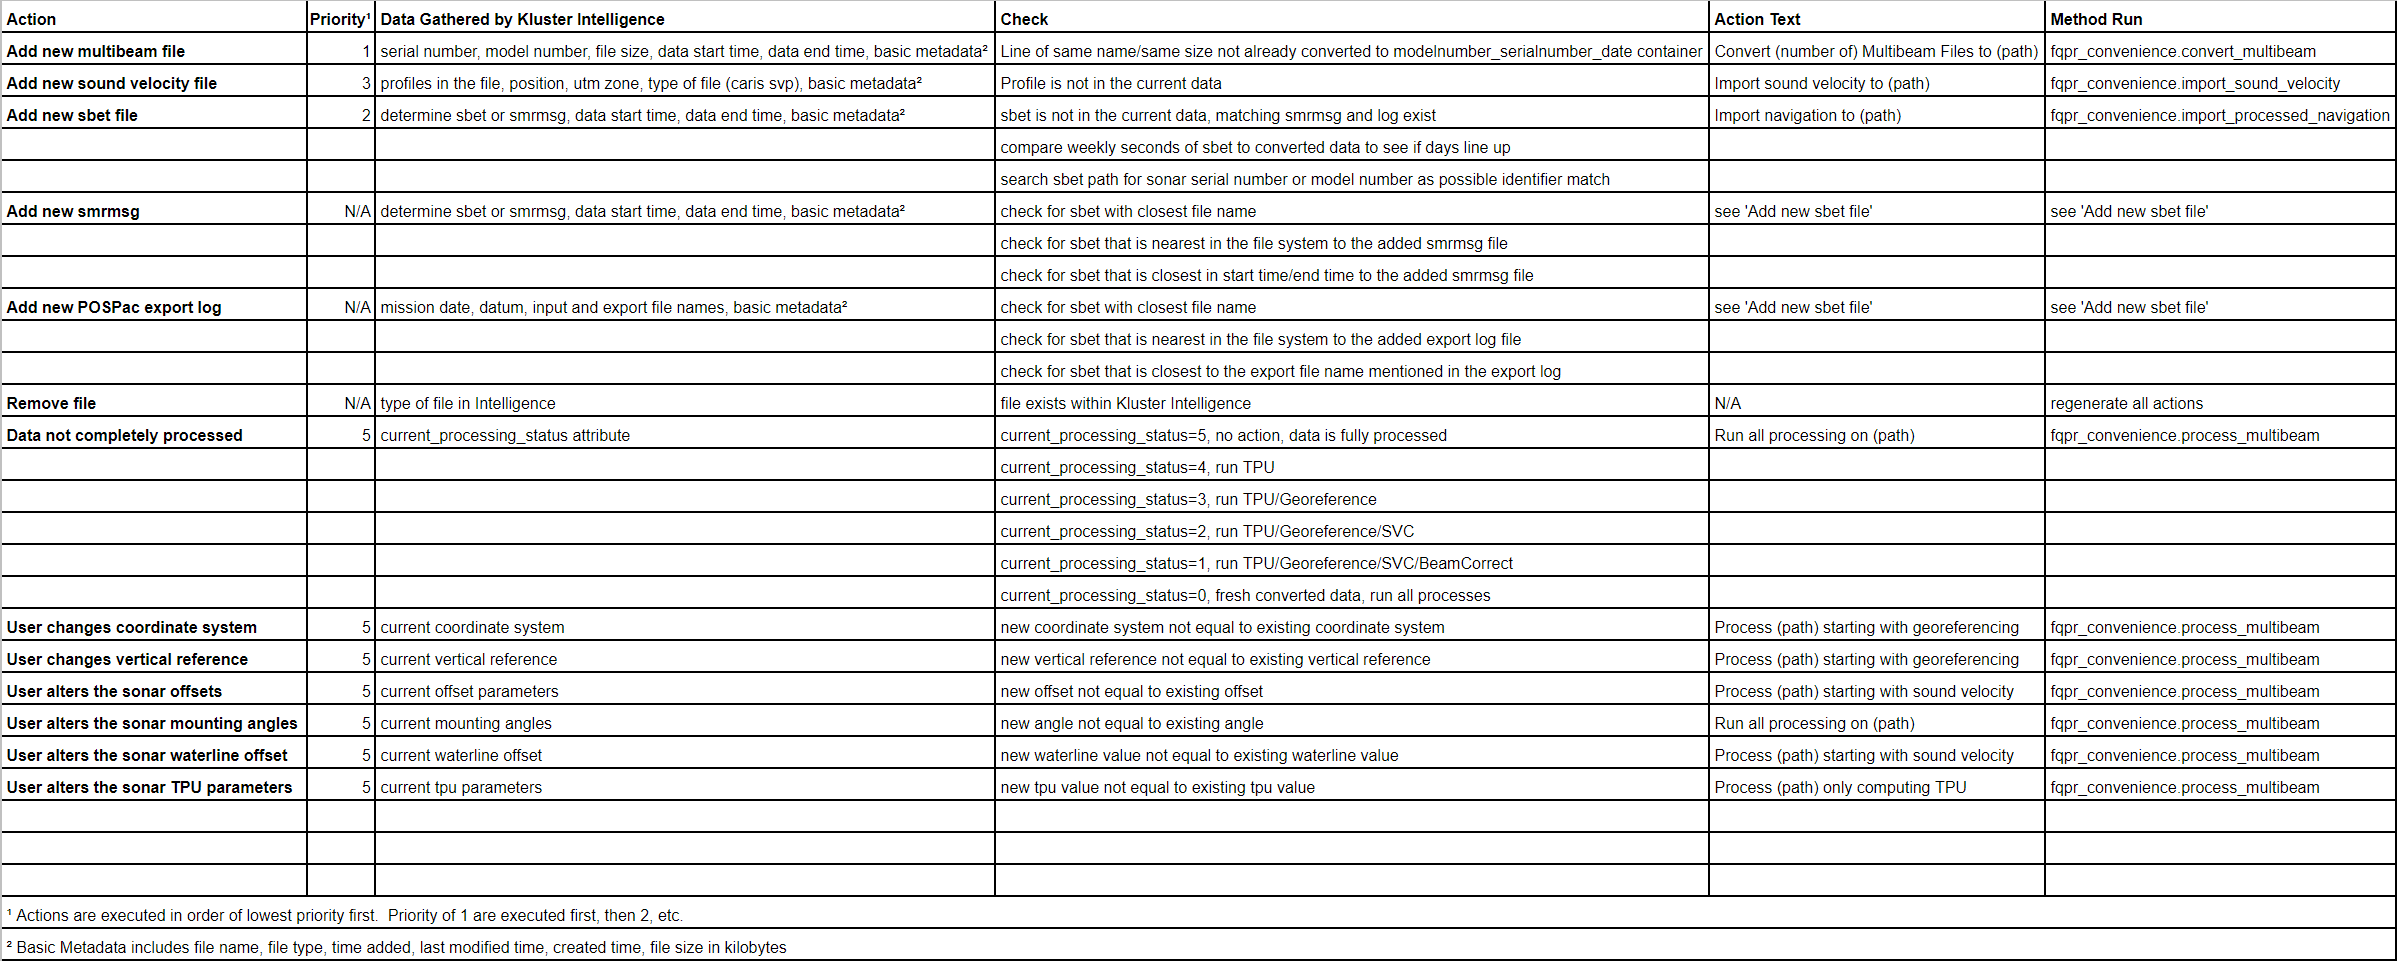
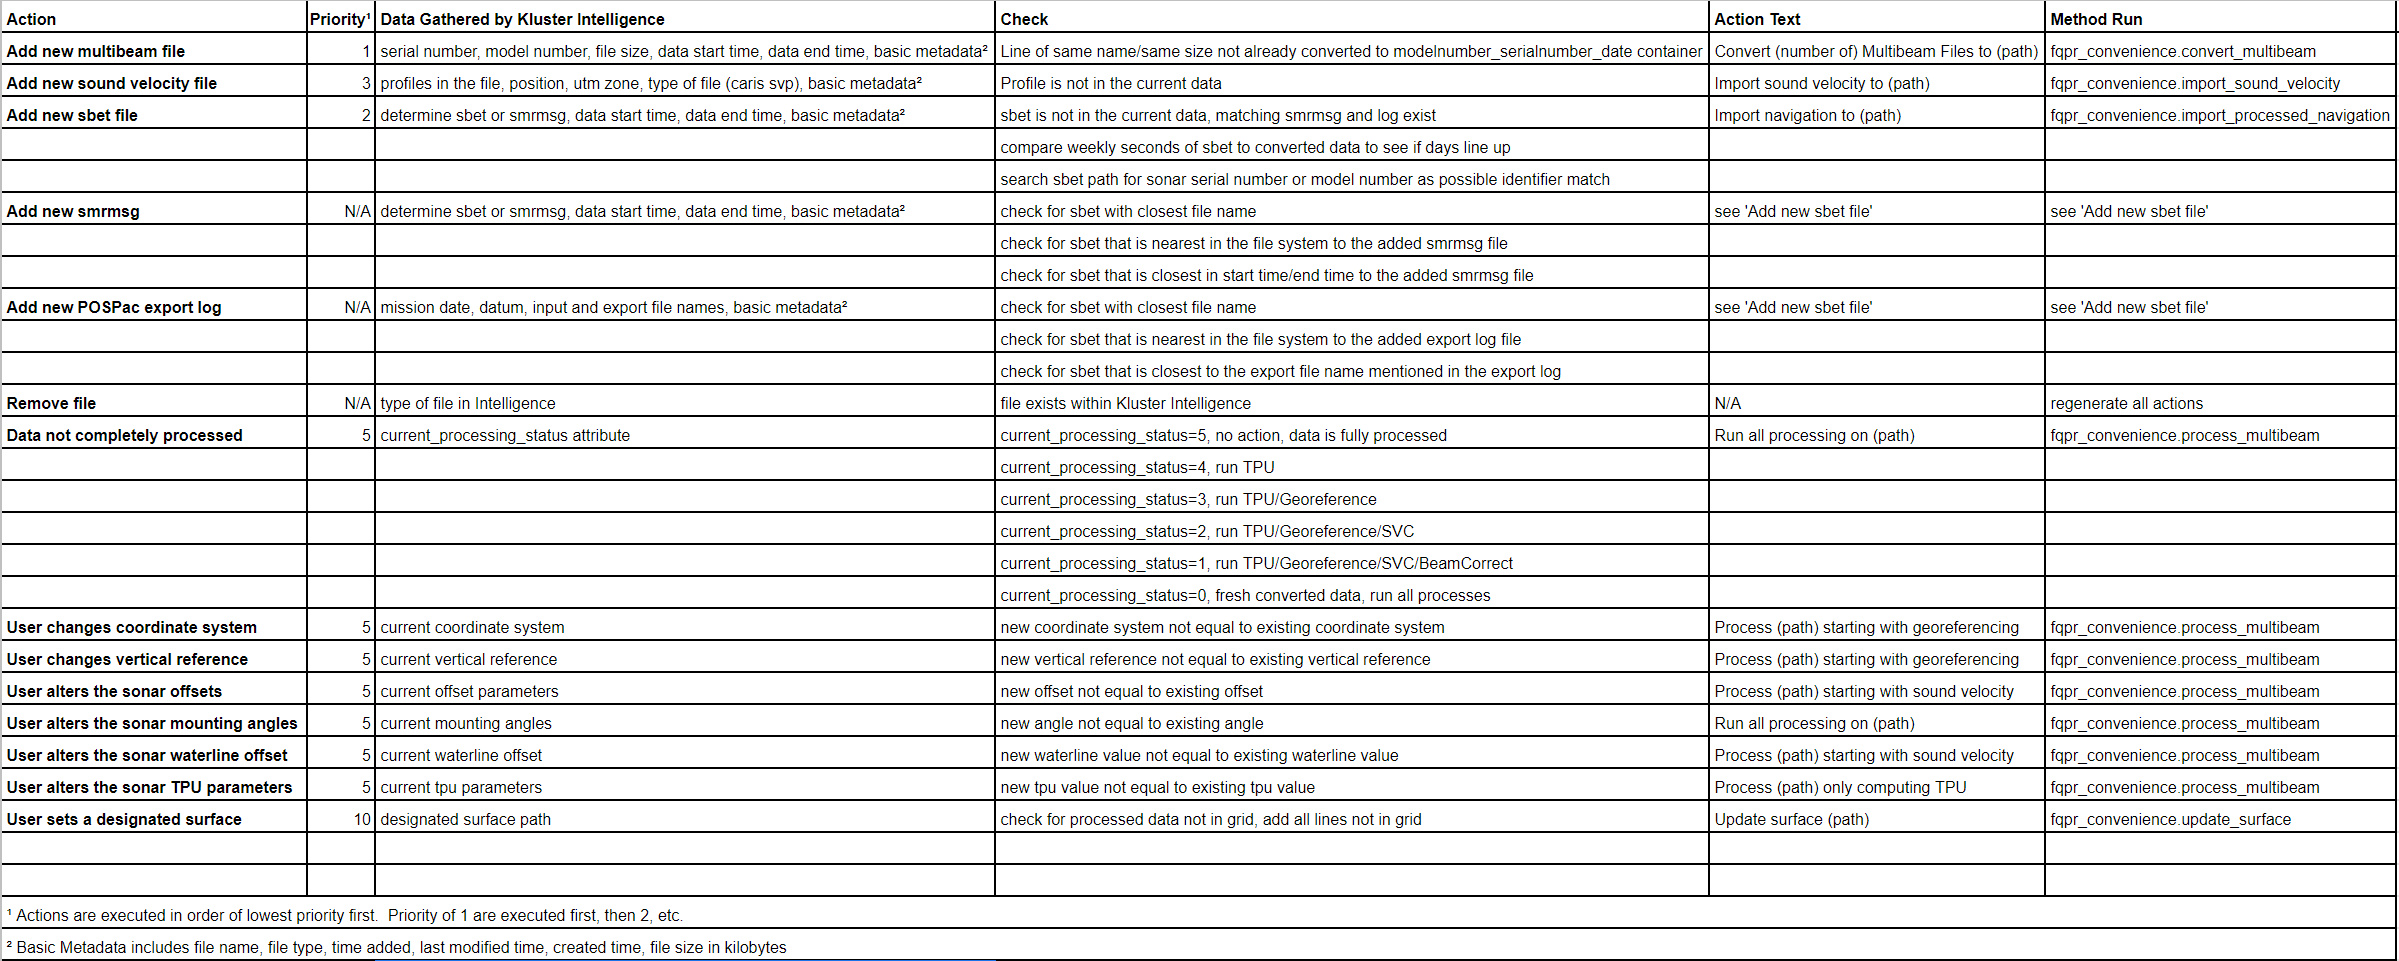
update docs

diff --git a/docs/changes.rst b/docs/changes.rst
@@ -1,6 +1,31 @@
 Changes List
 ============
 
+Kluster v0.9.6 (6/7/2022)
+-------------------------
+ - sync with bathygrid 1.3.9
+    - allow for creating empty grids
+    - check new points for issues before adding new container metadata
+
+ - add new designated surface for the intelligence module, will create gridding actions if there is new data not in the grid
+ - add Quickstart - Monitor documentation page on the designated surface
+ - setting a designated surface will open the surface in the project
+ - add new cast selection methods, searching in distance and time in profiloes
+ - on SVP import, overwrite profile attributes with better cast position/time
+ - add ability to import points from csv/las to existing surface
+ - updating a surface now refreshes that surface, instead of an expensive close/reopen
+ - can now use generate_new_surface to create an empty surface
+ - concatenate mode now displays the line to be processed in Actions
+ - update command line tools for new parameters
+
+ - add better messaging when trying to add only converted (not processed) lines to a grid
+ - explicitly close the tpu figures during processing to avoid memory warnings from pyplot
+ - bug fix for heave correction in dual head systems
+ - bug fix for Project Tree and displaying lines not from that container
+ - bug fix for processing by line, and dual head systems that sometimes have lines that overlap (subset by times)
+ - bug fix for hitting ESCAPE in points view and the app closing, disabled interactive mode
+ - update tests for new routines
+
 Kluster v0.9.5 (5/23/2022)
 --------------------------
  - sync with bathygrid 1.3.6
